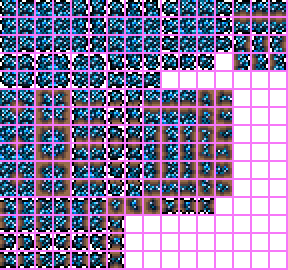
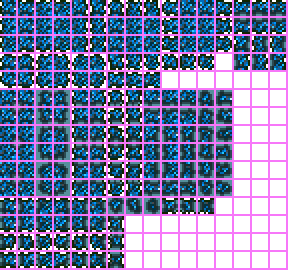
Slight changes

diff --git a/MyWorld.cs b/MyWorld.cs
@@ -92,7 +92,7 @@ namespace SpiritMod
                         {
                             xAxis++;
 
-                            if (Main.tile[xAxis, yAxis].type == mod.TileType("SpiritStone") && yAxis > WorldGen.rockLayer && Main.rand.Next(1500) == 6)
+                            if (Main.tile[xAxis, yAxis].type == mod.TileType("SpiritStone") && yAxis > WorldGen.rockLayer + 100 && Main.rand.Next(1500) == 6)
                             {
                                 WorldGen.TileRunner(xAxis, yAxis, (double)WorldGen.genRand.Next(5, 7), 1, mod.TileType("SpiritOreTile"), false, 0f, 0f, true, true);
                             }

diff --git a/Tiles/Block/SpiritOreTile.cs b/Tiles/Block/SpiritOreTile.cs
@@ -18,11 +18,10 @@ namespace SpiritMod.Tiles.Block
             minPick = 180;
             
         }
-      
         public override void ModifyLight(int i, int j, ref float r, ref float g, ref float b)   //light colors
         {
             r = 0;
-            g = 0;
+            g = 0.66f;
             b = 1;
         }
     }
